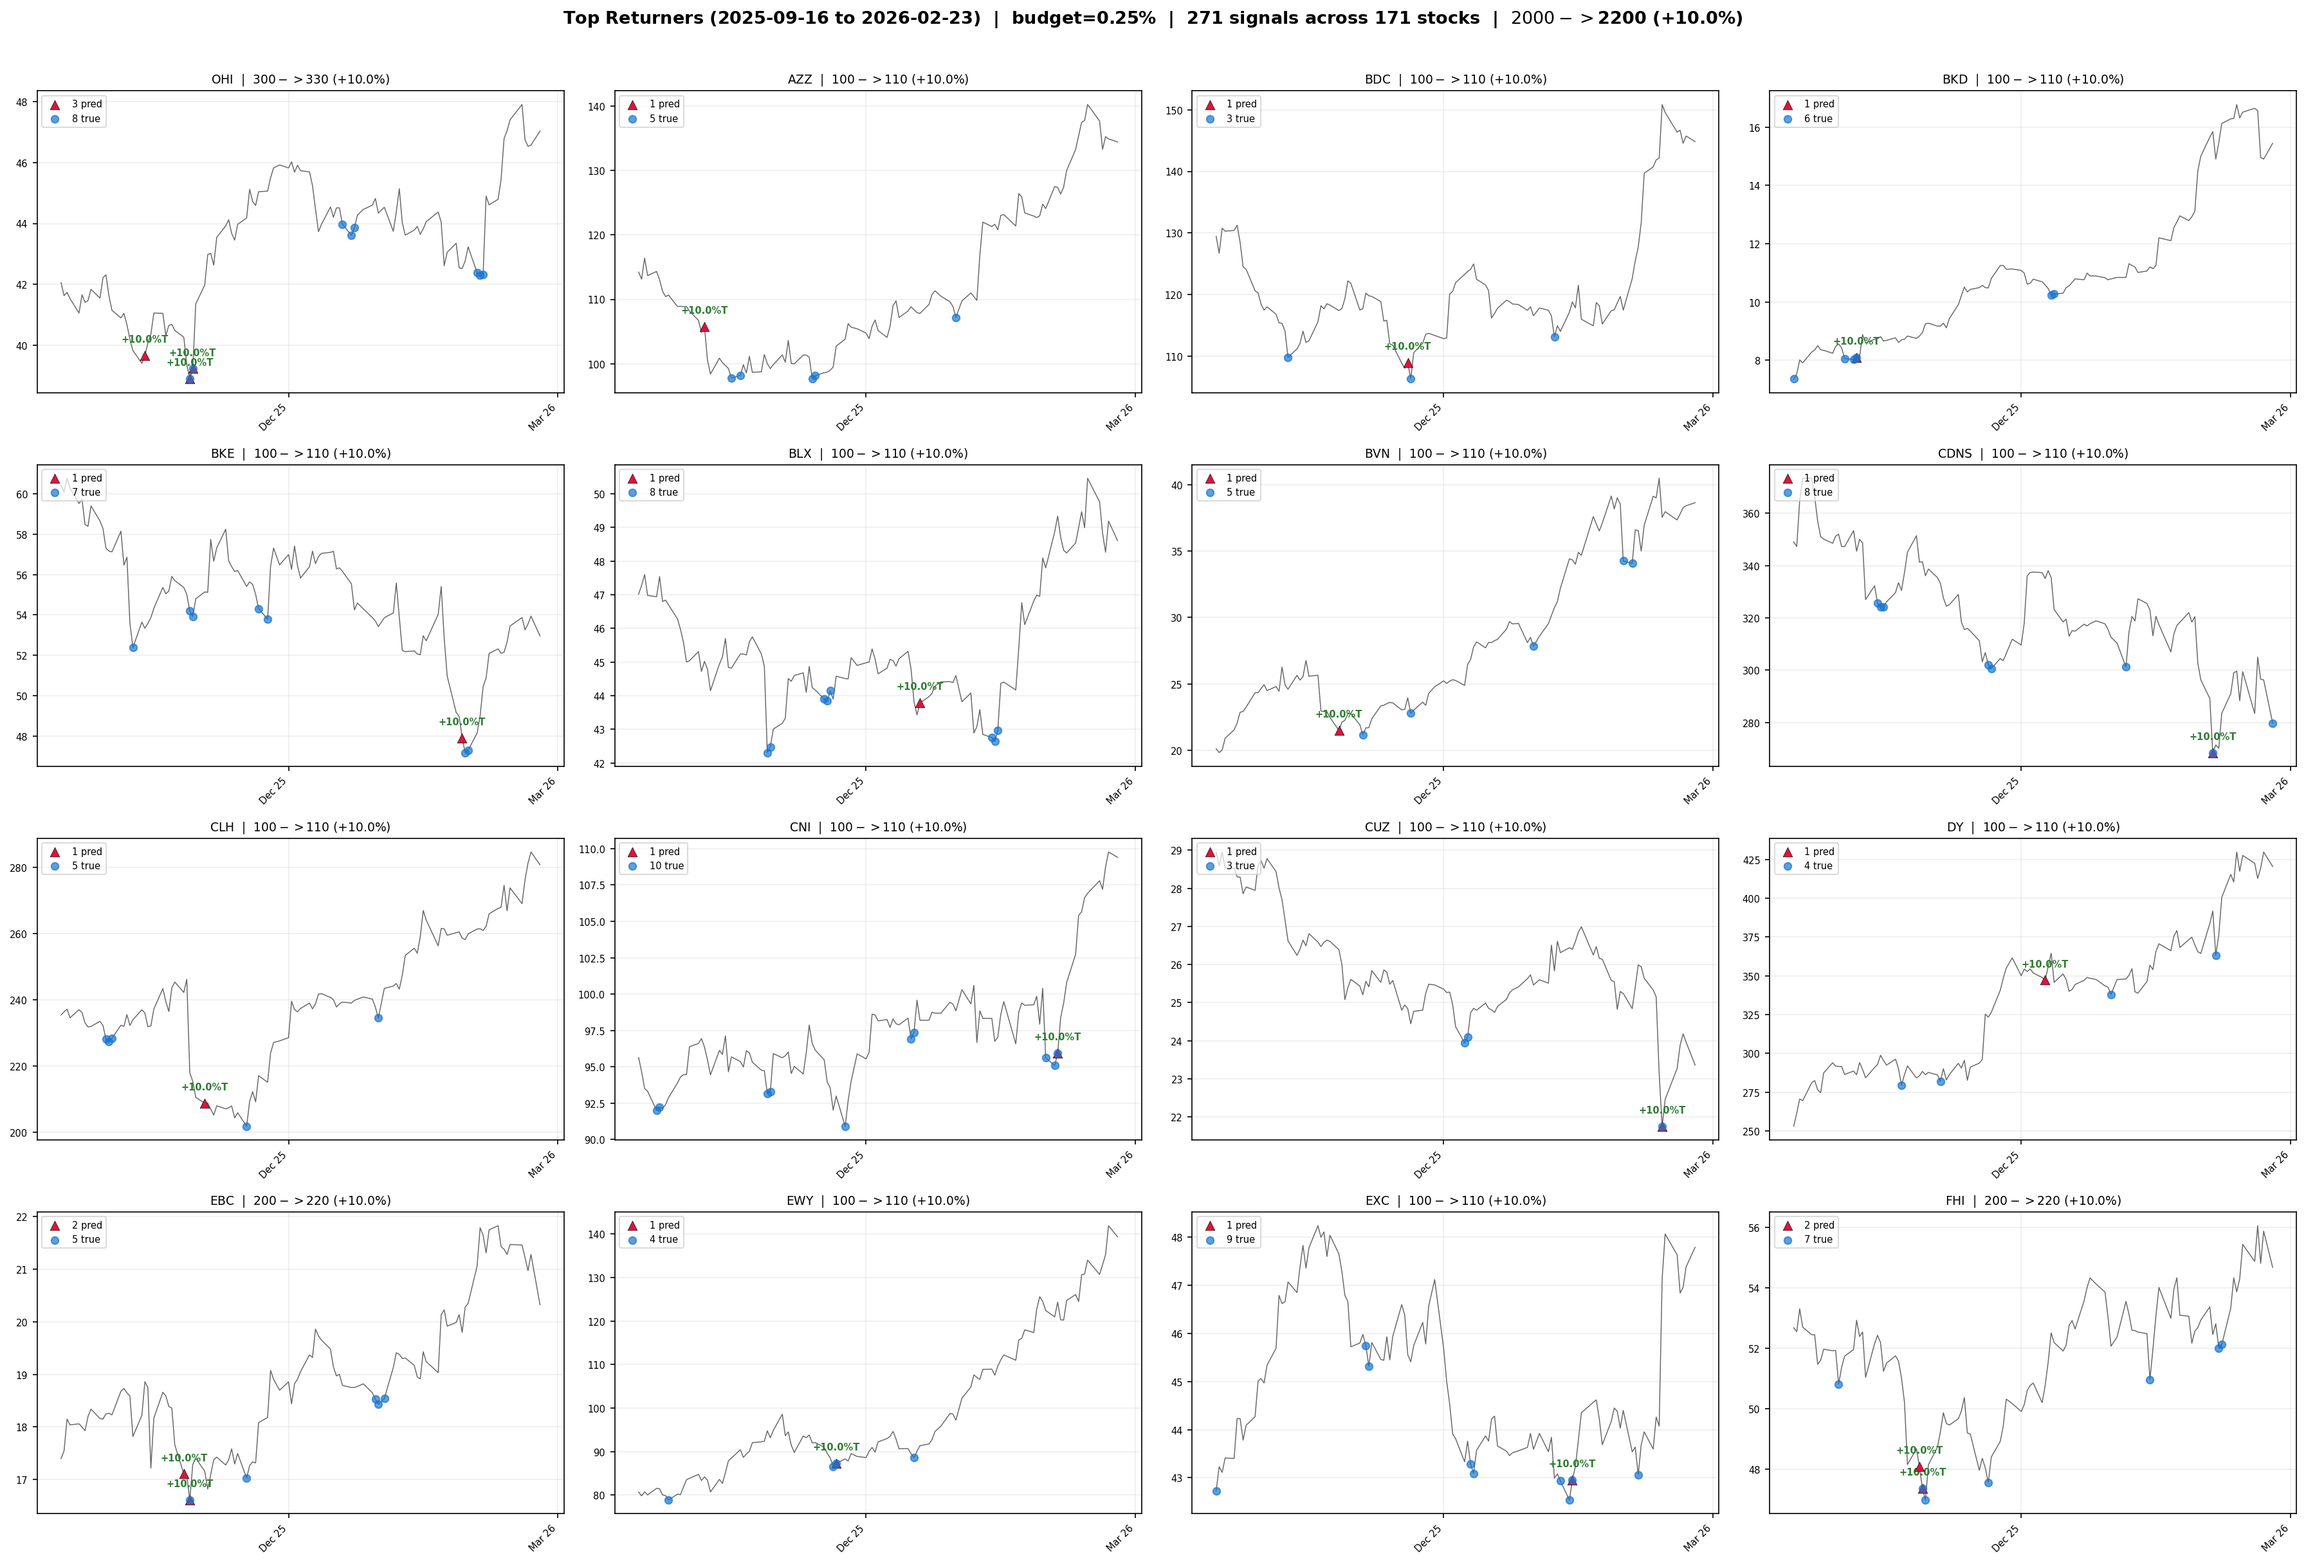
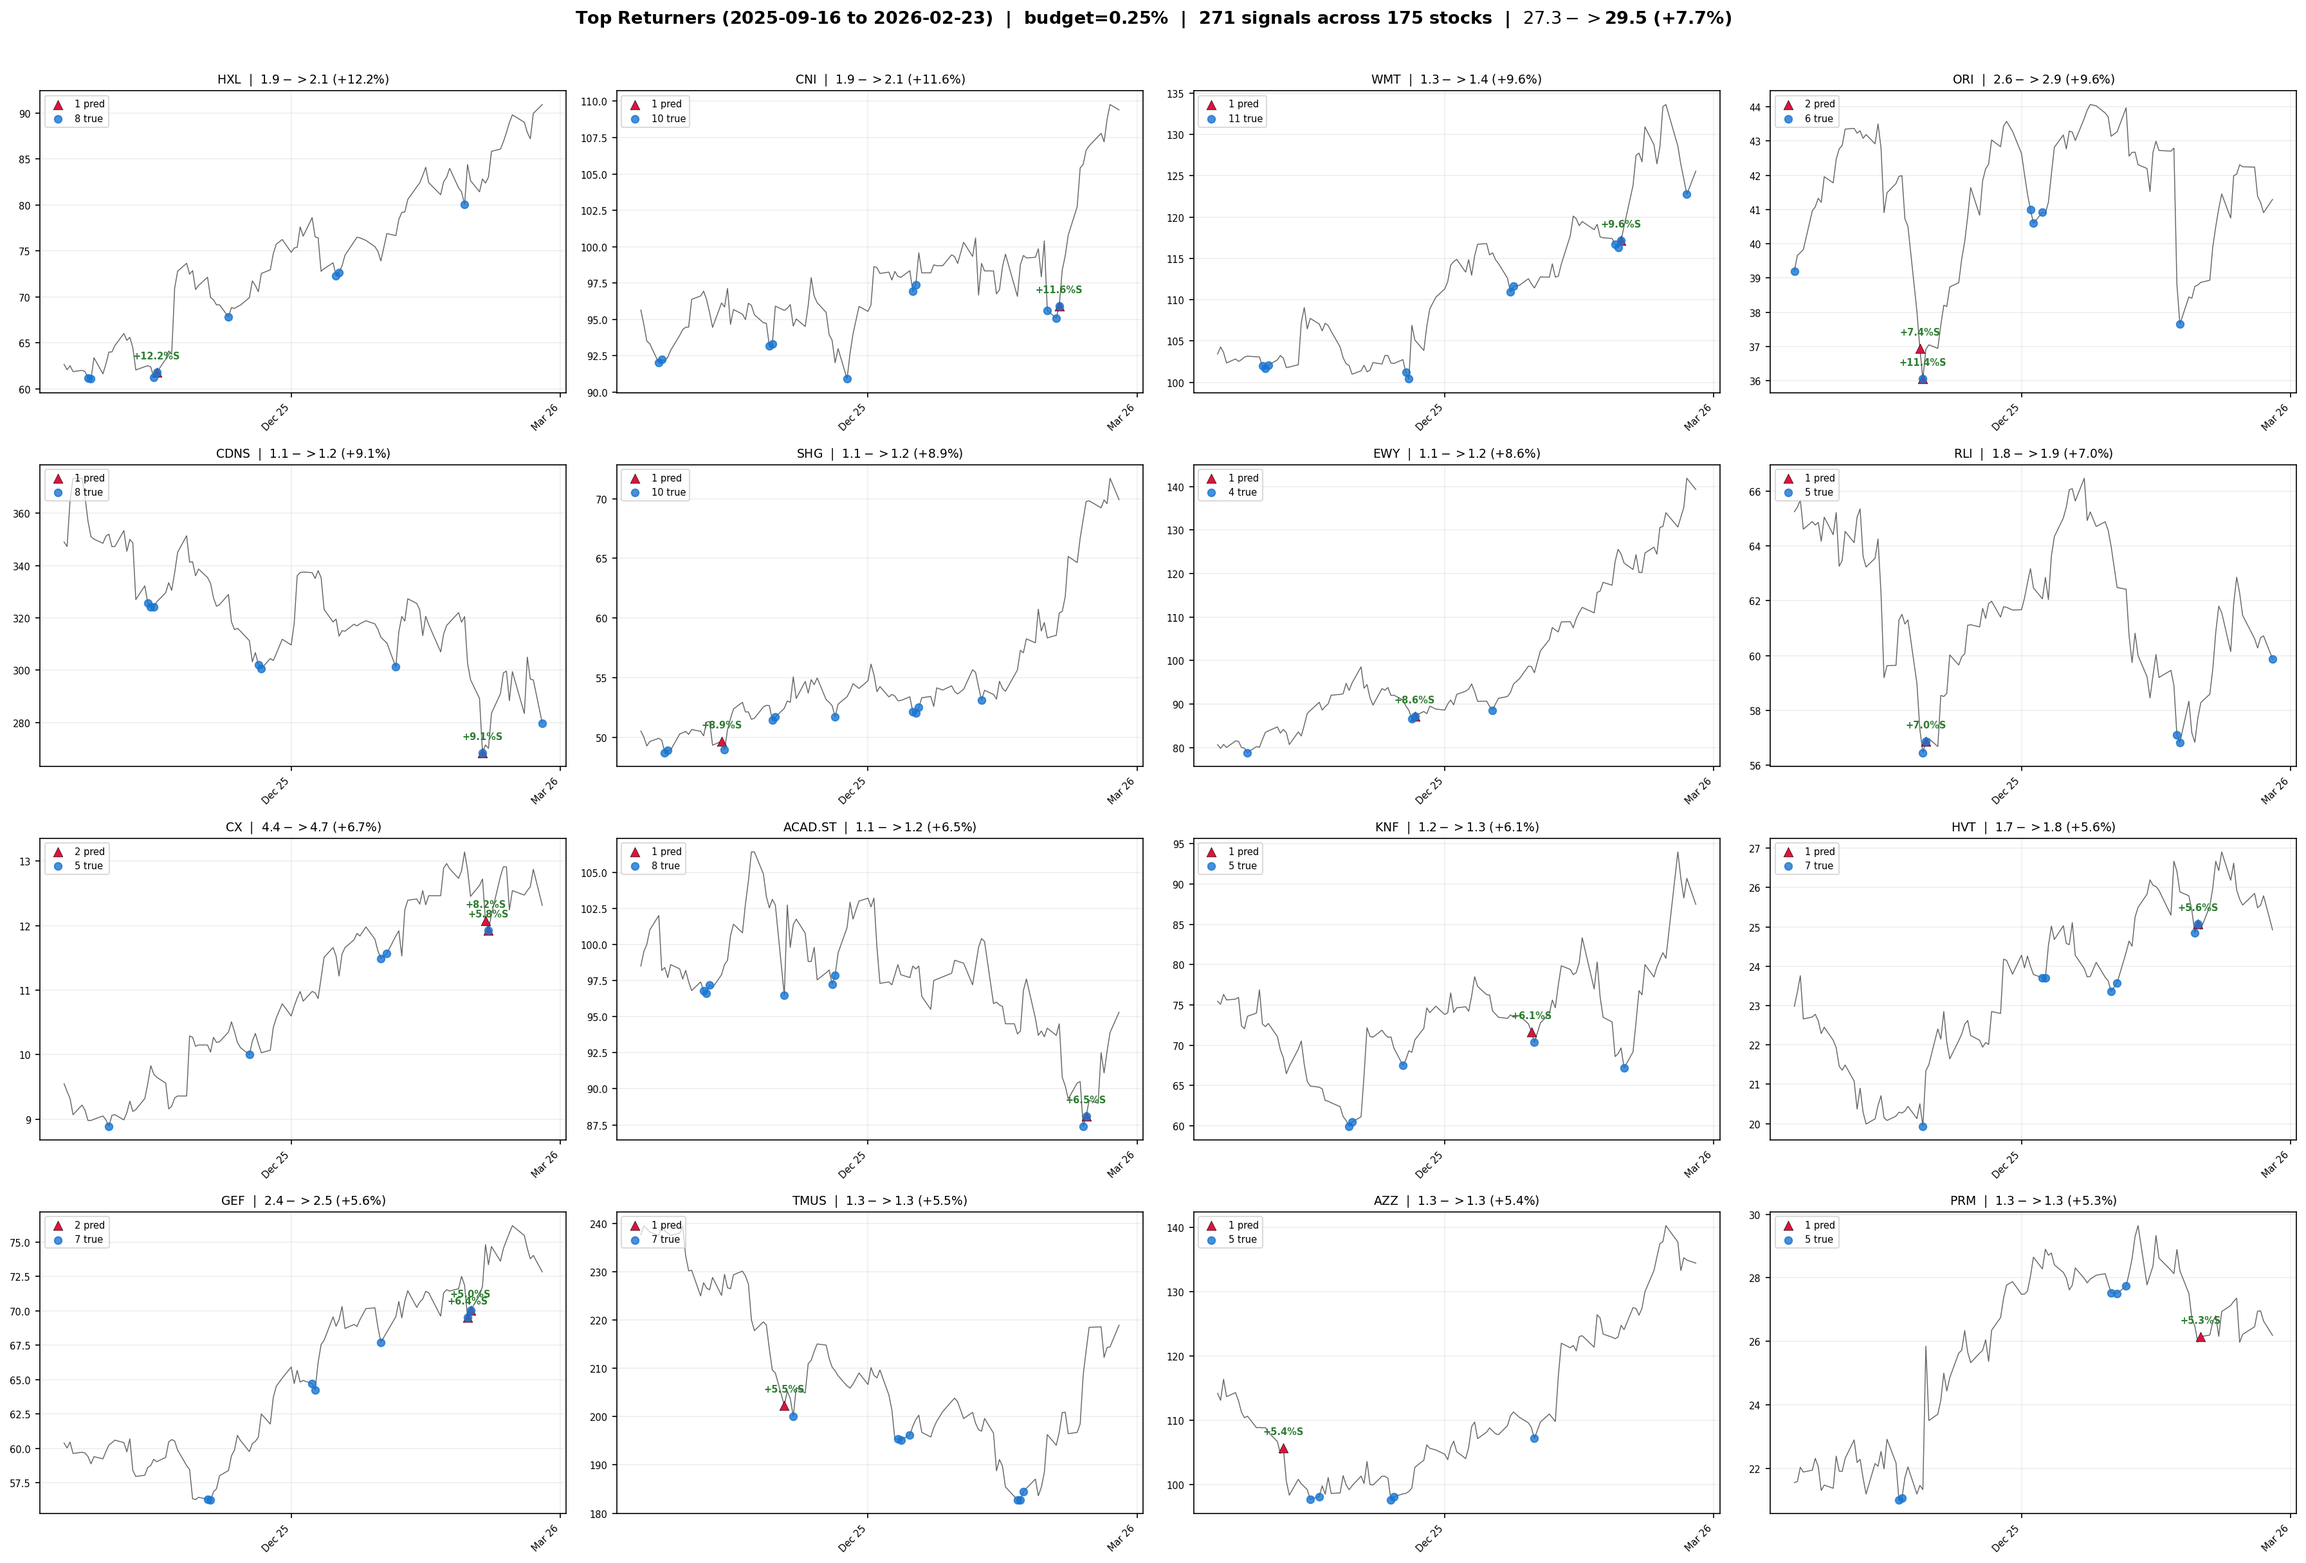
refactor: update trade simulation logic to implement a decaying trailing stop and enhance plotting functions for better trade visualization

diff --git a/research/test_and_plot.py b/research/test_and_plot.py
@@ -109,22 +109,30 @@ def train_and_evaluate():
     return val, y_val_proba, val_results
 
 
-def _trade_return(stock_df, signal_date, target=0.10, stop=-0.05, max_hold=30):
-    """Simulate one trade for annotation: target/stop/max_hold exit."""
+def _trade_return(stock_df, signal_date, stop_pct=0.07, max_hold=30):
+    """Simulate trade with decaying trailing stop from new highs.
+
+    stop_pct halves every 5 days, forcing exits on stale trades.
+    Trail always resets from highest high since entry.
+    """
     future = stock_df.loc[stock_df["date"] > signal_date].head(max_hold + 1)
     if len(future) == 0:
         return None, ""
     entry = future.iloc[0]["open"]
+    peak = entry
+
     for i in range(len(future)):
-        r = future.iloc[i]
-        if r["high"] >= entry * (1 + target):
-            return target, "T"
-        if r["low"] <= entry * (1 + stop):
-            return stop, "S"
+        row = future.iloc[i]
+        peak = max(peak, row["high"])
+        current_stop = stop_pct / (2 ** (i // 5))
+        stop_price = peak * (1 - current_stop)
+        if row["low"] <= stop_price:
+            ret = (stop_price - entry) / entry
+            return ret, "S"
+
     exit_price = future.iloc[-1]["close"]
     ret = (exit_price - entry) / entry
-    reason = "H" if len(future) > max_hold else "P"
-    return ret, reason
+    return ret, "H" if len(future) > max_hold else "E"
 
 
 def _plot_signal_grid(val, y_pred, top_stocks, out_name, label, budget):
@@ -141,6 +149,9 @@ def _plot_signal_grid(val, y_pred, top_stocks, out_name, label, budget):
     fig, axes = plt.subplots(rows, cols, figsize=(6 * cols, 4 * rows), squeeze=False)
     total_invested = 0.0
     total_result = 0.0
+    selected = val[val["pred"] == 1]
+    p_min, p_max = selected["proba"].min(), selected["proba"].max()
+    p_range = p_max - p_min if p_max > p_min else 1.0
 
     for i, stock_id in enumerate(top_stocks):
         ax = axes[i // cols][i % cols]
@@ -160,16 +171,18 @@ def _plot_signal_grid(val, y_pred, top_stocks, out_name, label, budget):
         true_pivots = stock[stock[LABEL_COL] == 1]
         ax.scatter(
             true_pivots["date"], true_pivots["close"],
-            color="#1976d2", s=30, zorder=5, marker="o", alpha=0.7,
+            color="#1976d2", s=30, zorder=5, marker="o", alpha=0.8,
             label=f"{len(true_pivots)} true",
         )
 
-        trade_rets = []
+        trades = []
         for _, row in signals.iterrows():
-            ret, reason = _trade_return(stock, row["date"])
+            units = 1 + 4 * (row["proba"] - p_min) / p_range
+            stop = 0.05 + 0.05 * (row["proba"] - p_min) / p_range
+            ret, reason = _trade_return(stock, row["date"], stop_pct=stop)
             if ret is None:
                 continue
-            trade_rets.append(ret)
+            trades.append((ret, units))
             color = "#2e7d32" if ret > 0 else "#c62828"
             label_text = f"{ret:+.1%}{reason}"
             ax.annotate(
@@ -178,12 +191,12 @@ def _plot_signal_grid(val, y_pred, top_stocks, out_name, label, budget):
                 fontsize=7, color=color, ha="center", fontweight="bold",
             )
 
-        if trade_rets:
-            inv = len(trade_rets) * 100
-            res = sum(100 * (1 + r) for r in trade_rets)
+        if trades:
+            inv = sum(u for _, u in trades)
+            res = sum(u * (1 + r) for r, u in trades)
             total_invested += inv
             total_result += res
-            ax.set_title(f"{stock_id}  |  ${inv:.0f} -> ${res:.0f} ({(res / inv - 1):+.1%})", fontsize=9)
+            ax.set_title(f"{stock_id}  |  ${inv:.1f} -> ${res:.1f} ({(res / inv - 1):+.1%})", fontsize=9)
         else:
             ax.set_title(f"{stock_id}", fontsize=10)
         ax.legend(loc="upper left", fontsize=7, framealpha=0.7)
@@ -196,7 +209,7 @@ def _plot_signal_grid(val, y_pred, top_stocks, out_name, label, budget):
     for i in range(n, rows * cols):
         axes[i // cols][i % cols].set_visible(False)
 
-    roi_str = f"  |  ${total_invested:.0f} -> ${total_result:.0f} ({(total_result / total_invested - 1):+.1%})" if total_invested > 0 else ""
+    roi_str = f"  |  ${total_invested:.1f} -> ${total_result:.1f} ({(total_result / total_invested - 1):+.1%})" if total_invested > 0 else ""
     fig.suptitle(
         f"{label} ({date_range})  |  budget={budget*100:.2f}%  |  "
         f"{n_total_signals} signals across {n_signal_stocks} stocks{roi_str}",
@@ -234,16 +247,23 @@ def plot_top_returners(val_df, y_proba, budget=VIZ_BUDGET, max_stocks=16):
     val["pred"] = y_pred
     val["proba"] = y_proba
 
+    selected = val[val["pred"] == 1]
+    p_min, p_max = selected["proba"].min(), selected["proba"].max()
+    p_range = p_max - p_min if p_max > p_min else 1.0
+
     stock_roi = {}
-    for stock_id, group in val[val["pred"] == 1].groupby("stock_id"):
+    for stock_id, group in selected.groupby("stock_id"):
         stock = val[val["stock_id"] == stock_id].sort_values("date")
-        rets = []
+        total_inv, total_res = 0.0, 0.0
         for _, row in group.iterrows():
-            ret, _ = _trade_return(stock, row["date"])
+            units = 1 + 4 * (row["proba"] - p_min) / p_range
+            stop = 0.05 + 0.05 * (row["proba"] - p_min) / p_range
+            ret, _ = _trade_return(stock, row["date"], stop_pct=stop)
             if ret is not None:
-                rets.append(ret)
-        if rets:
-            stock_roi[stock_id] = sum(rets) / len(rets)
+                total_inv += units
+                total_res += units * (1 + ret)
+        if total_inv > 0:
+            stock_roi[stock_id] = (total_res - total_inv) / total_inv
     if not stock_roi:
         print("No returners!")
         return
